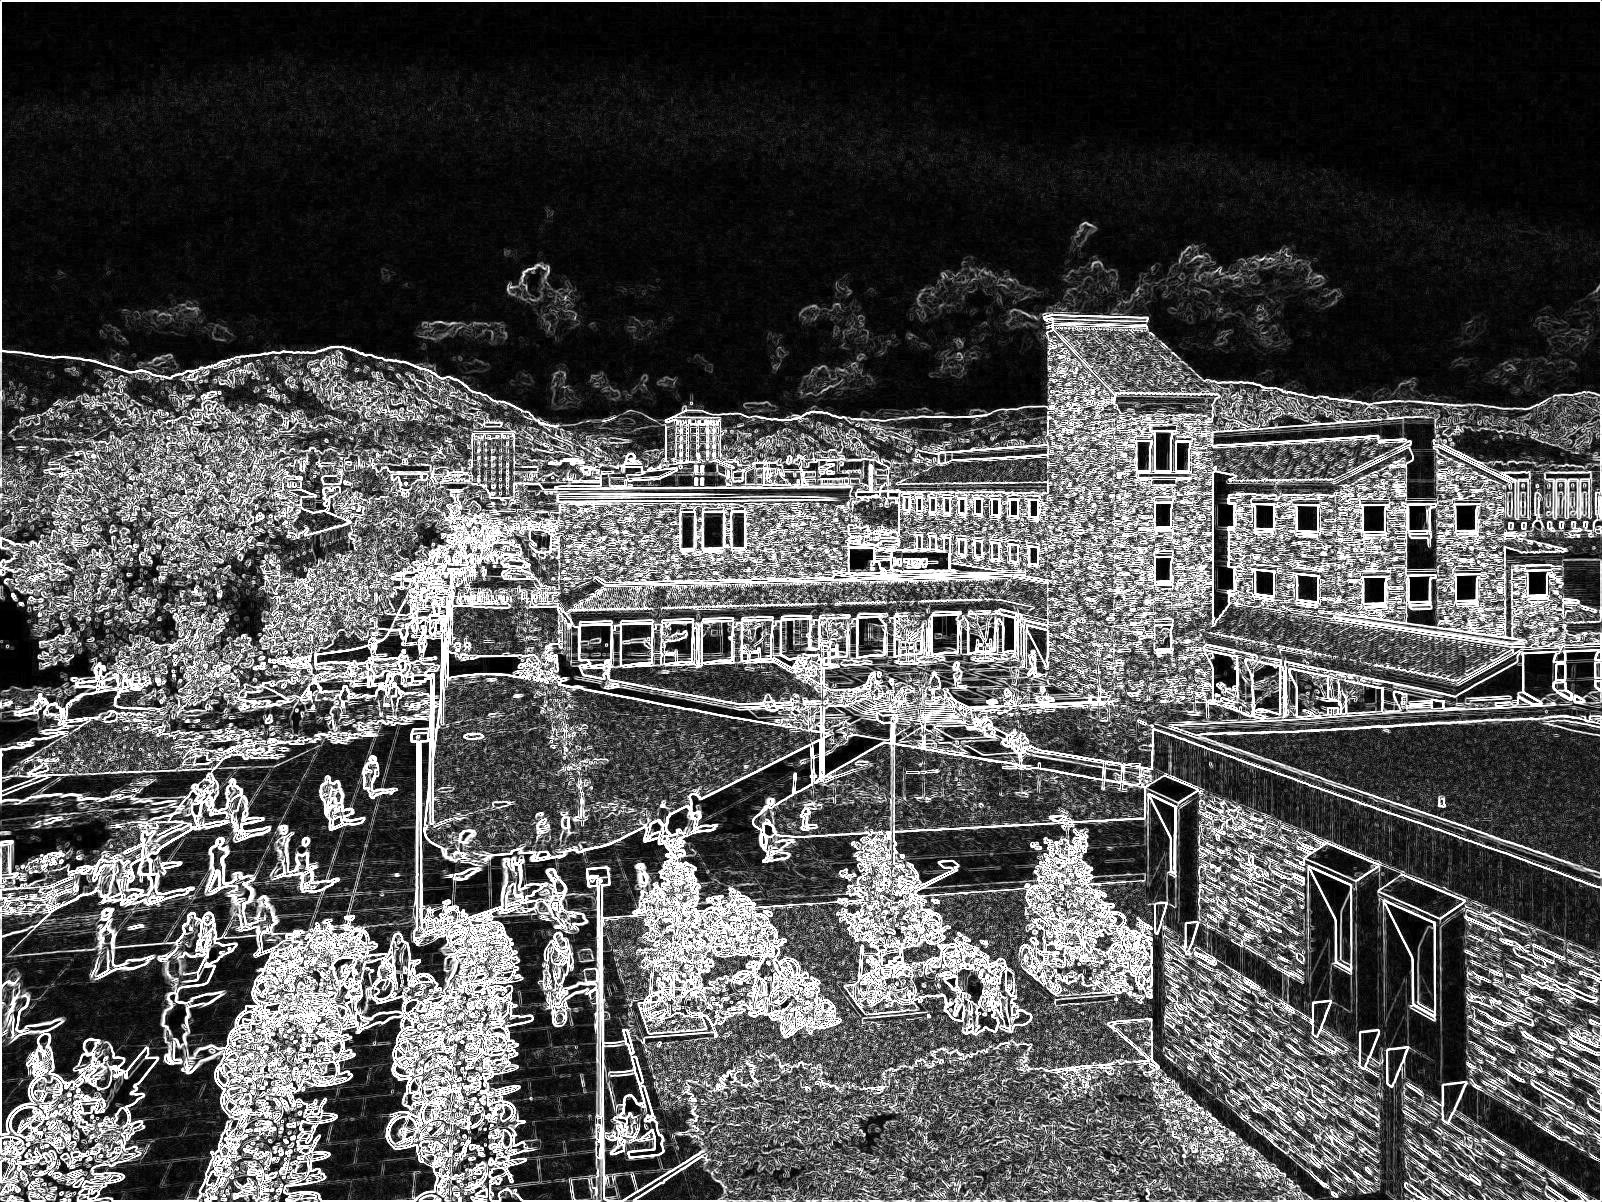
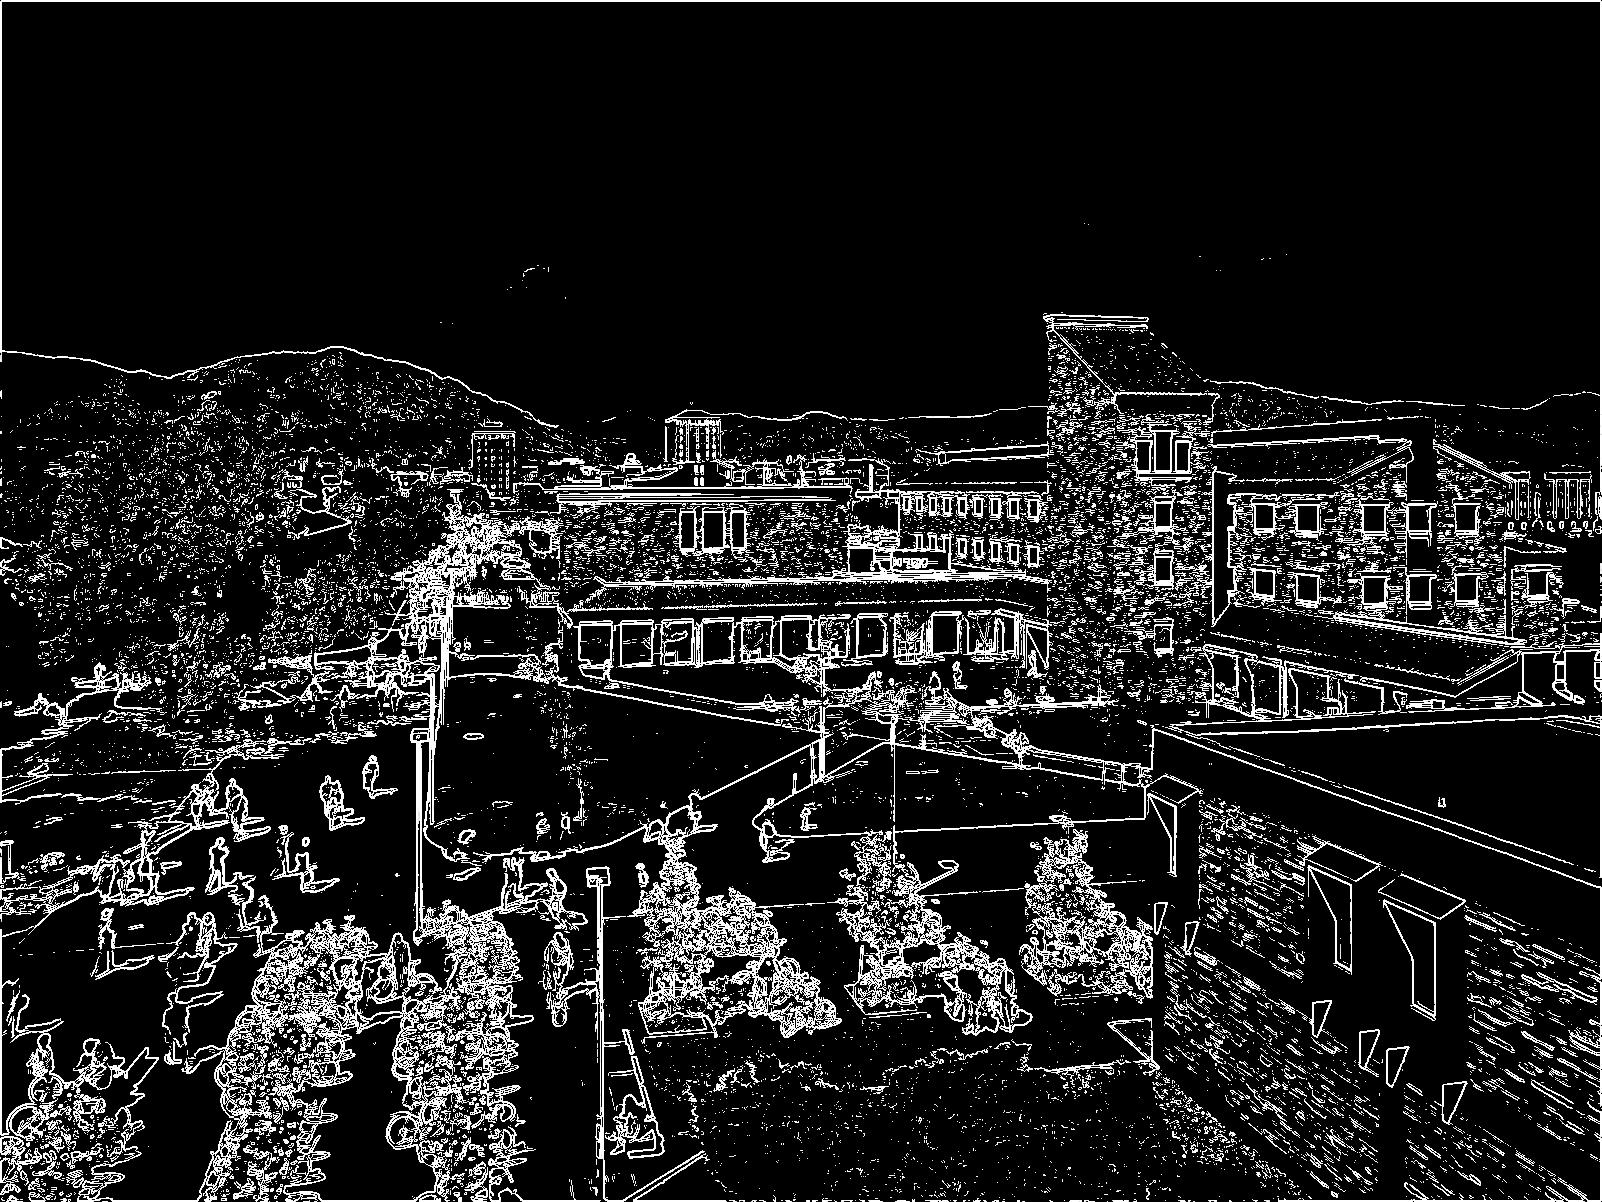
threshold added

diff --git a/lab2/edge_detection.py b/lab2/edge_detection.py
@@ -21,9 +21,12 @@ imdat = np.asarray(pilim, np.float) # put PIL image into numpy array of floats
 grad_x = signal.convolve2d(imdat, kernel_x)
 grad_y = signal.convolve2d(imdat, kernel_y)
 
-#TODO: how to implement threshold?
-
 edge = np.sqrt(grad_x**2 + grad_y**2)
+
+#TODO: how to implement threshold?
+threshold = 220
+threshold_idx = np.where(edge < threshold)
+edge[threshold_idx] = 0
 
 Image.fromarray(edge).convert('L').save(out_filename)
 Image.fromarray(edge).show()
